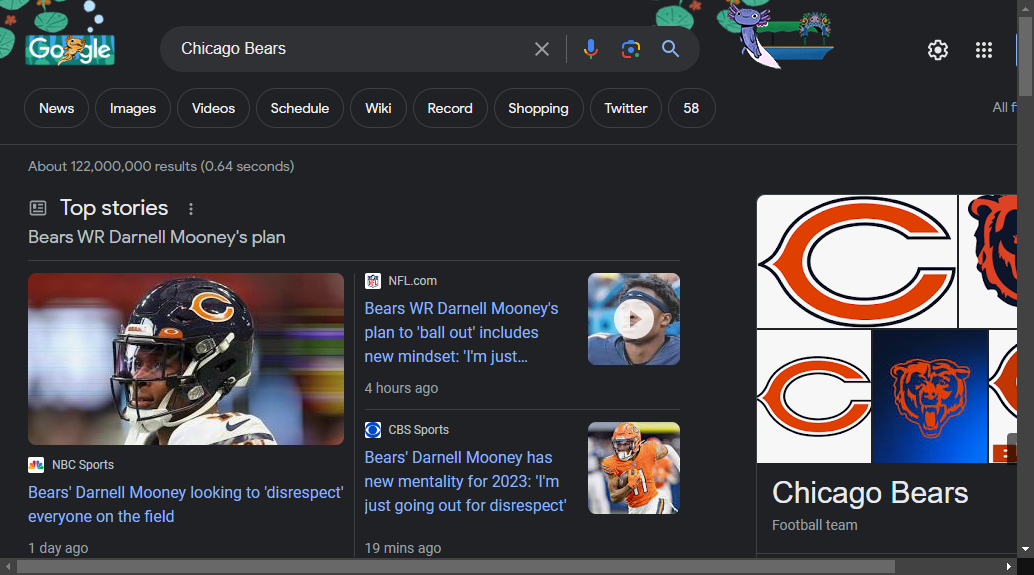
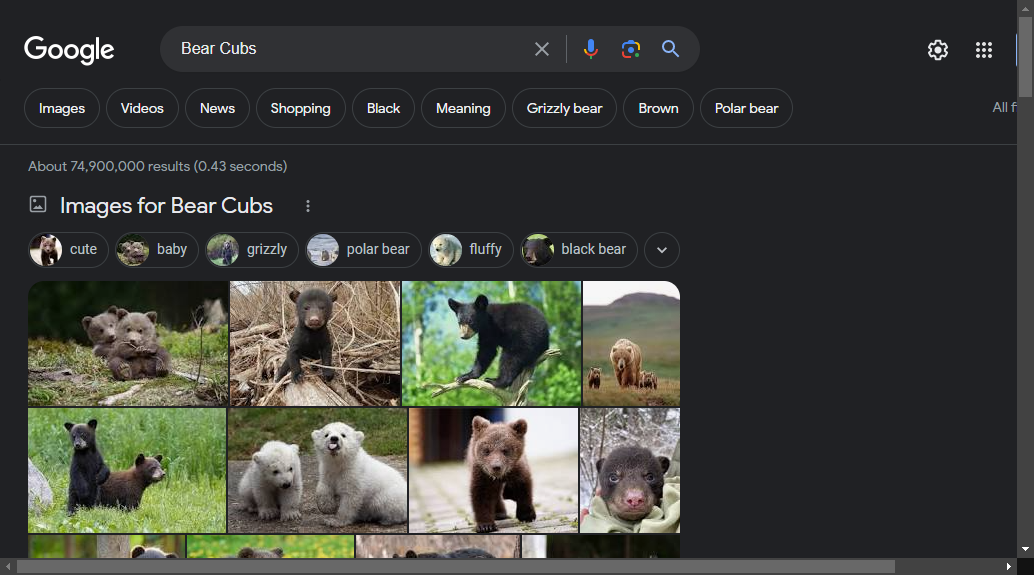
2.8 Homework part 1

diff --git a/2.8/labExercise.test.ts b/2.8/labExercise.test.ts
@@ -1,0 +1,110 @@
+class Animal {
+  name: string;
+  sound: string;
+  food: string;
+  constructor(name: string, sound: string, food: string) {
+    this.name = name;
+    this.sound = sound;
+    this.food = food;
+  }
+  soundOff(): string {
+    return `The ${this.name} makes the sound "${this.sound}".`;
+  }
+}
+
+/**
+* Fish extends Animal, but takes different properties, has a different soundOff() method, and a new method, habitat().
+* @param {string} name - as expected
+* @param {string} food - as expected
+* @param {string} saltwater - true if the fish is a saltwater fish
+*/
+
+class Fish extends Animal {
+  saltwater: boolean;
+  constructor(name: string, food: string, saltwater: boolean) {
+    super(name, null, food);
+    this.saltwater= saltwater;
+  }
+  soundOfff(): string {
+    return `The ${this.name} is a fish and does not make sounds`;
+  };
+  habitat(): string {
+  return `The ${this.name} is a ${this.saltwater ? "saltwater" : "freshwater"} fish.`
+  }
+
+}
+
+/**
+* Bird extends Animal, but takes an additional property, and has an additional method, fly().
+* @param {string} name - as expected
+* @param {string} sound - as expected
+* @param {string} food - as expected
+* @param {number} flightSpeed - the flight speed of the bird, in meters/second. This should be 0 for flightless birds.
+*/
+
+class Bird extends Animal {
+  flightSpeed: number;
+  constructor(name: string, sound: string, food: string, flightSpeed: number) {
+    super(name, sound, food);
+    this.flightSpeed = flightSpeed;
+  };
+  fly(): string {
+    if (this.flightSpeed > 0)
+    return `The ${this.name} flies at speeds of up to ${this.flightSpeed} meters per second!`;
+    else return `The ${this.name} is a flightless bird.`;
+  }
+
+}
+
+
+describe("Testing animals", () => {
+  test("a basic animal works as expected", () => {
+    let lion = new Animal("lion", "roar", "meat");
+    // lion is an animal
+    expect(lion instanceof Animal).toBeTruthy();
+    // lion.soundOff() has the expected output
+    expect(lion.soundOff()).toBe('The lion makes the sound "roar".');
+  });
+  describe("Fish", () => {
+    // Fish should only have the three parameters listed.
+    let goldfish = new Fish("goldfish", "pellets", false);
+    let shark = new Fish("shark", "fish", true);
+    it("are animals", () => {
+      // Fish *must* extend Animal
+      expect(goldfish instanceof Animal).toBeTruthy();
+    });
+    it("doesn't make sound", () => {
+      // Fish should give the expected soundOff, it's own version
+      expect(goldfish.soundOfff()).toBe(
+        "The goldfish is a fish and does not make sounds."
+      );
+    });
+    it("can be saltwater or freshwater", () => {
+      // Fish gives the right habitat string based on the `saltwater` property
+      expect(goldfish.habitat()).toBe("The goldfish is a freshwater fish.");
+      expect(shark.habitat()).toBe("The shark is a saltwater fish.");
+    });
+  });
+  describe("Birds", () => {
+    // Bird should actually take four arguments
+    let swallow = new Bird("swallow", "chattering chirp", "insects", 11);
+    let emu = new Bird("emu", "grunt", "plants and insects", 0);
+    it("are animals", () => {
+      // Bird *must* extend Animal
+      expect(swallow instanceof Animal).toBeTruthy();
+    });
+    it("make sounds", () => {
+      // Bird uses the standard soundOff
+      expect(swallow.soundOff()).toBe(
+        'The swallow makes the sound "chattering chirp".'
+      );
+    });
+    it("might be able to fly", () => {
+      // Bird have a new method using the fly speed to give us these strings
+      expect(swallow.fly()).toBe(
+        "The swallow flies at speeds of up to 11 meters per second!"
+      );
+      expect(emu.fly()).toBe("The emu is a flightless bird.");
+    });
+  });
+});

diff --git a/2.8/basePage1.ts b/2.8/basePage1.ts
@@ -1,0 +1,51 @@
+import {Builder, By, Capabilities, until, WebDriver, WebElement} from "selenium-webdriver";
+const chromedriver = require('chromedriver'); 
+
+interface Options {
+    driver?: WebDriver; 
+    //if no driver is supplied use the one in the constructor.
+    url?: string; 
+    // if no url is supplied use the one in the constructor. 
+}
+
+export class BasePage {
+    driver: WebDriver; 
+    url: string; 
+
+    constructor(options?: Options) {
+        if (options && options.driver) this.driver = options.driver; 
+        else
+        this.driver = new Builder()
+        .withCapabilities(Capabilities.chrome())
+        .build();
+        if(options && options.url) this.url = options.url
+    }
+    async navigate(url?: string): Promise<void> {
+        if (url) return await this.driver.get(url); 
+        else if (this.url) return await this.driver.get(this.url); 
+        else
+        return Promise.reject(
+            "BasePage.naviagate() requires a URL in your page object or test."
+        ) 
+    }; 
+    async getElement(elementBy: By): Promise<WebElement> {
+        await this.driver.wait(until.elementLocated(elementBy)); 
+        let element = await this.driver.findElement(elementBy); 
+        await this.driver.wait(until.elementIsVisible(element)); 
+        return element; 
+    };
+    async click(elementBy: By): Promise<void> {
+        return(await this.getElement(elementBy)).click()
+    };
+    async setInput(elementBy:By, keys: any): Promise<void> {
+        let input = await this.getElement(elementBy); 
+        await input.clear(); 
+        return input.sendKeys(keys)
+    };
+    async getText(elementBy: By): Promise<string> {
+        return (await this.getElement(elementBy)).getText(); 
+    }; 
+    async getAttribute(elementBy: By, attribute: string): Promise<string> {
+        return (await this.getElement(elementBy)).getAttribute(attribute);
+    };
+}

diff --git a/2.8/gainThroughInheritance.test.ts b/2.8/gainThroughInheritance.test.ts
@@ -1,4 +1,6 @@
-class Animal {
+/**
+
+class Animall {
     name: string;
     sound: string;
     food: string;
@@ -18,7 +20,7 @@ class Animal {
    * @param {string} food - as expected
    * @param {string} saltwater - true if the fish is a saltwater fish
    */
-  class Fish extends Animal {
+ /*  class Fishh extends Animal {
     saltwater: boolean;
     // As required, has the name, food, and saltwater parameters
     constructor(name: string, food: string, saltwater: boolean) {
@@ -47,7 +49,7 @@ class Animal {
    * @param {string} food - as expected
    * @param {number} flightSpeed - the flight speed of the bird, in meters/second. This should be 0 for flightless birds.
    */
-  class Bird extends Animal {
+  /*class Birdd extends Animal {
     flightSpeed: number;
     // this constructor takes one more parameter than Animal, flightSpeed
     constructor(name: string, sound: string, food: string, flightSpeed: number) {
@@ -92,7 +94,7 @@ class Animal {
         expect(shark.habitat()).toBe("The shark is a saltwater fish.");
       });
     });
-    describe("Birds", () => {
+    describe("Birdds", () => {
       // Bird should actually take four arguments
       let swallow = new Bird("swallow", "chattering chirp", "insects", 11);
       let emu = new Bird("emu", "grunt", "plants and insects", 0);
@@ -115,3 +117,5 @@ class Animal {
       });
     });
   });
+
+  */

diff --git a/2.8/googleWBasePage.test.ts b/2.8/googleWBasePage.test.ts
@@ -1,0 +1,22 @@
+import {Google} from './googlePageWBase';
+const google = new Google()
+const fs = require('fs')
+test('do a search', async () => {
+    await google.navigate()
+    await google.search('Bear Cubs');
+    let text = await google.getResults();
+    expect(text).toContain('Bear Cubs');
+
+    fs.writeFile(`${__dirname}/test.txt`, text, (e) => {
+        if (e) console.log(e);
+        else console.log('Save Successful');
+    })
+
+    fs.writeFile(`${__dirname}/google.png`,
+    await google.driver.takeScreenshot(), "base64",
+    (e) =>{
+        if (e) console.log("a picture says a thousand words.")
+    })
+
+    await google.driver.quit()
+});

diff --git a/2.8/googlePageWBase.ts b/2.8/googlePageWBase.ts
@@ -1,0 +1,17 @@
+import {By} from 'selenium-webdriver';
+import { BasePage } from './basePage1';
+
+export class Google extends BasePage {
+    searchBar: By = By.name('q');
+    results: By = By.id('rso');
+    constructor() {
+        super({url: "https://www.google.com"});
+    };
+    async search(searchTerm: string) {
+        return this.setInput(this.searchBar, `${searchTerm}\n`);
+    };
+    async getResults() {
+        return this.getText(this.results);
+    };
+    
+};

diff --git a/2.3/arraysUsingClasses.ts b/2.3/arraysUsingClasses.ts
@@ -1,4 +1,4 @@
-class Bird {
+/**class Bird {
     name: string;
     canFly: boolean;
     hasFeathers: boolean = true;
